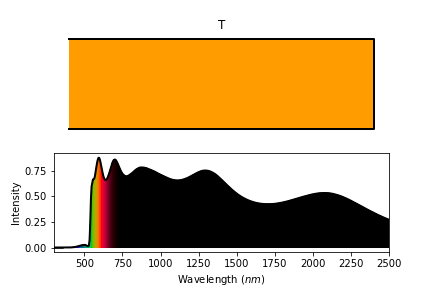
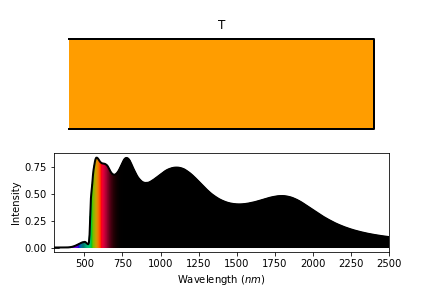
Started Conversion from Quad to Trapz integration
Functions fit together now but something is off. RR0 gives a significantly different number using trapz integration. I suspect it has to do with Ephoton which had to be reversed to prevent negative numbers

diff --git a/tmmPCECalc.py b/tmmPCECalc.py
@@ -243,7 +243,8 @@ AM15 = downloaded_array[1:, [0,2]]
 # print(AM15)
 
     
-Ephoton = hPlanck * c0 / lams *1e6 #J
+Ephotonrr = hPlanck * c0 / lams *1e6 #J #Big to small
+Ephoton = Ephotonrr[::-1]  #small to big
 E_min = min(Ephoton) #J   energy units from hPlanck
 E_max = max(Ephoton) #J   energy units from hPlanck
 
@@ -288,7 +289,7 @@ def GiveEInterp(Parameter):
     Curve = Parameter.round(8)
     return scipy.interpolate.interp1d(Ephoton, Curve)
 
-
+'''
 def GiveQ(Spectra, eta = 1):#Spectra must be an interpolated function
         def integrand(E):
             return eta * Spectra(E) * PowerPerTEA(E)
@@ -298,7 +299,7 @@ def GiveQ(Spectra, eta = 1):#Spectra must be an interpolated function
 def GiveQ(Spectra, eta = 1):#Spectra must be an array
         integrand = eta*Spectra*PowerPerTEA(Ephoton)
         return -np.trapz(integrand, Ephoton)     
-'''
+
 
 '''
 def GivePhotons(Spectra, eta):#Spectra must be an interpolated function
@@ -308,7 +309,7 @@ def GivePhotons(Spectra, eta):#Spectra must be an interpolated function
 '''
 # Here I input the spectrum of photons absorbed by the absorber material (Absorbed)
 # and the electron-hole pair extraction efficiency (eta). EQE = eta * Absorbed
-
+'''
 def RR0(eta,Absorbed,Tcell):
     integrand = lambda E : eta * Absorbed(E) * (E)**2 / (np.exp(E / (kB * Tcell)) - 1)
     integral = scipy.integrate.quad(integrand, E_min, E_max, full_output=1)[0]
@@ -321,38 +322,29 @@ def Generated(eta,Absorbed):
     return scipy.integrate.quad(integrand, E_min, E_max, full_output=1)[0]
 #units 1/(s*m**2)
 '''
+#Trapz calculations
 #Using trapezoidal rule for integration instaed of quad
 #AbsByAbsorbers is an aray of intensities, not an interpolated function.
 def RR0(eta,Absorbed,Tcell):
-    AbsByAbsorbers = AbsByAbsorbers.round(8)
-    integrand = eta * AbsByAbsorbers * (Ephoton)**2 / (np.exp(Ephoton / (kB * Tcell)) - 1)
+    Absorbed = Absorbed.round(8)
+    integrand = eta * Absorbed * (Ephoton)**2 / (np.exp(Ephoton / (kB * Tcell)) - 1)
     integral = scipy.integrate.trapz(integrand, Ephoton)
     return ((2 * np.pi) / (c0**2 * hPlanck**3)) * integral
+#RR0 with trapz gives a significantly different answer than RR0 with quad
 
 def Generated(eta,Absorbed):
     Absorbed = Absorbed.round(8)
     integrand = eta * Absorbed * SPhotonsPerTEA(Ephoton)
-#    integral = scipy.integrate.quad(integrand, E_min, E_max, full_output=1)[0]
     return np.trapz(integrand, Ephoton)
-'''
+
 def Give_Pmp(eta, Absorbed, Rs, Rsh, Tcell, n = 1, Ns = 1):
     data = pvlib.pvsystem.singlediode(Generated(eta, Absorbed)*q, RR0(eta, Absorbed,Tcell)*q, Rs, Rsh, n*Ns*kB*Tcell/q, ivcurve_pnts = 500)
     return data['p_mp']
 
 #Calculate equilibrium Tcell
 def TcellCalc(TotalAbs, eta, Ti,To, Absorbed, Ui, Uo, Rs, Rsh):
-    AbsTotal = GiveEInterp(TotalAbs)
-    #Absorbed = GiveEInterp(Absorbed)
-    #eta is included in GiveQ for simplicity but should not be used for calculating Tcell. eta is set to 1
-    Qabs = GiveQ(AbsTotal)
-    #def Qabs(eta, AbsTotal):
-    #    def LowerB():
-    #        return E_min
-    #    def UpperB():
-    #        return E_max
-    #    def integrand(self,E):
-    #        return eta * AbsTotal(E) * SPhotonsPerTEA(E)
-    #    return scipy.integrate.dblquad(integrand, E_min, E_max, LowerB(), UpperB())[0]        
+    #AbsTotal = GiveEInterp(TotalAbs)
+    Qabs = GiveQ(TotalAbs)
     Temp = lambda Tcell: (Qabs - Give_Pmp(eta,Absorbed,Rs,Rsh, Tcell) + Ui*Ti + Uo*To)/(Ui + Uo)-Tcell
     return scipy.optimize.fsolve(Temp, 300)[0]
 
@@ -387,17 +379,8 @@ def GiveIVData(eta, Absorbed, Rs, Rsh,Tcell, n = 1, Ns = 1):
 def SHGC(Ts, Ti, To, Tcell, solar_constant, Ui):
     #Tcell = TcellCalc(As,Ti,To,eta,Absorbed)
     Rtot = 1/Ui #This is approximate because Ui is assumed
-    #Included in GiveQ for simplicity but should not be used for calculating SHGC
-    TransTotal = GiveEInterp(Ts)
-    Qtrans = GiveQ(TransTotal,1)
-    #def Qtrans(eta, TransTotal):
-    #    def LowerB():
-    #        return E_min
-    #    def UpperB():
-    #        return E_max
-    #    def integrand(self,E):
-    #        return eta * TransTotal(E) * SPhotonsPerTEA(E)
-    #    return scipy.integrate.dblquad(integrand, E_min, E_max, LowerB(), UpperB())[0]
+    #TransTotal = GiveEInterp(Ts)
+    Qtrans = GiveQ(Ts)
     return (Qtrans + Ui*(Tcell-Ti) - ((To-Ti)/Rtot))/solar_constant
 
 def max_efficiency(eta,Absorbed,Tcell, solar_constant, Rs, Rsh):
@@ -416,10 +399,9 @@ def GiveImportantInfo(WERT, LayersMaterials,eta,Ti,To,Ui,Uo,Rs,Rsh,solar_constan
     Rbs = spectra['Rbs']
     As = spectra['As']
     sanities = spectra['Total']
-    Absorbed = GiveEInterp(AbsByAbsorbers)
+    Absorbed = AbsByAbsorbers#GiveEInterp(AbsByAbsorbers)
     VLTcalc = VLT(layers)
     Tcell = TcellCalc(As,eta, Ti,To, Absorbed, Ui, Uo, Rs, Rsh)
-    #Absorbed = tpc.GiveEInterp(tpc.Spectra(tpc.GiveLayers(Thickness, LayersMaterials),4)['AbsByAbsorbers'])
     data = GiveIVData(eta, Absorbed, Rs, Rsh,Tcell, n = 1, Ns = 1)
     Isc = data['i_sc']
     Voc = data['v_oc']

diff --git a/tmmPCEOptimization.py b/tmmPCEOptimization.py
@@ -123,7 +123,8 @@ def MediumOptimize(Thickness):
     #AbsorberLayer = 4
     layers = tpc.GiveLayers(Thickness, LayersMaterials)
     SpectraCurves = tpc.Spectra(layers,AbsorberLayer)
-    Absorbed = tpc.GiveEInterp(SpectraCurves['AbsByAbsorbers'])
+    #Absorbed = tpc.GiveEInterp(SpectraCurves['AbsByAbsorbers'])
+    Absorbed = (SpectraCurves['AbsByAbsorbers'])
     Tcell = tpc.TcellCalc(SpectraCurves['As'],eta, Ti,To,Absorbed,Ui, Uo, Rs, Rsh)
     return tpc.max_efficiency(eta,Absorbed,Tcell, solar_constant, Rs, Rsh)
 
@@ -188,7 +189,8 @@ print('VLT range and thicknesses of absorber are',minmax)
 layers=tpc.GiveLayers(Thickness,LayersMaterials)
 Spectres = tpc.Spectra(layers, AbsorberLayer)
 As = Spectres['As']
-Absorbed = tpc.GiveEInterp(Spectres['AbsByAbsorbers'])
+#Absorbed = tpc.GiveEInterp(Spectres['AbsByAbsorbers'])
+Absorbed = Spectres['AbsByAbsorbers']
 TcellPreOp = tpc.TcellCalc(As, eta, Ti,To, Absorbed, Ui, Uo, Rs, Rsh)
 print('Tcell PreOp = ',TcellPreOp)
 
@@ -196,10 +198,41 @@ print('Tcell PreOp = ',TcellPreOp)
 PreOpInfo = tpc.GiveImportantInfo(Thickness, LayersMaterials,eta,Ti,To,Ui,Uo,Rs,Rsh,solar_constant)
 print('PreOp Calculations give',PreOpInfo)
 
+def RR0quad(eta,Absorbed,Tcell):
+    integrand = lambda E : eta * Absorbed(E) * (E)**2 / (np.exp(E / (kB * Tcell)) - 1)
+    integral = scipy.integrate.quad(integrand, tpc.E_min, tpc.E_max, full_output=1)[0]
+    return ((2 * np.pi) / (c0**2 * hPlanck**3)) * integral# / 1.60218e-19 #J/eV
+#units = 1/(s*m**2)
+
+def RR0trapz(eta,Absorbed,Tcell):
+    Absorbed = Absorbed.round(8)
+    integrand = eta * Absorbed * (Ephoton)**2 / (np.exp(Ephoton / (kB * Tcell)) - 1)
+    integral = scipy.integrate.trapz(integrand, Ephoton)
+    return ((2 * np.pi) / (c0**2 * hPlanck**3)) * integral
+#RR0 with trapz gives a significantly different answer than RR0 with quad
+
+RR0Quad = RR0quad(eta,tpc.GiveEInterp(Absorbed),300)
+RR0Trapz = RR0trapz(eta, Absorbed, 300)
+print('RR0Quad = ', RR0Quad)
+print('RR0Trapz = ', RR0Trapz)
 
 
+def GenQuad(eta,Absorbed):
+    integrand = lambda E : eta * Absorbed(E) * tpc.SPhotonsPerTEA(E)
+#    integral = scipy.integrate.quad(integrand, E_min, E_max, full_output=1)[0]
+    return scipy.integrate.quad(integrand, tpc.E_min, tpc.E_max, full_output=1)[0]
+#units 1/(s*m**2)
 
+def GenTrapz(eta,Absorbed):
+    Absorbed = Absorbed.round(8)
+    integrand = eta * Absorbed * tpc.SPhotonsPerTEA(Ephoton)
+    return np.trapz(integrand, Ephoton)
+GenQuad = GenQuad(eta,tpc.GiveEInterp(Absorbed))
+GenTrapz = GenTrapz(eta, Absorbed)
+print('GenQuad = ', GenQuad)
+print('GenTrapz = ', GenTrapz)
 
+TrapzSquad
 #_________________________________Optimization here__________________________
 #tpc.Give_Pmp(eta,Absorbed,Rs,Rsh, Tcell)
 start1 = time.time()
